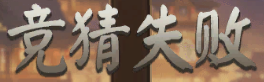
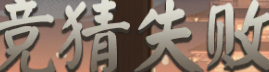
撤回对弈竞猜失败识别的上次 GitHub 更新
回退提交 f091fbd103808c7a6e00dbbb280de1e2fa8b44ea。
恢复发布前的竞猜失败素材和识别规则，保留此前的策略、推送和排期功能。

diff --git a/tasks/FrogBoss/assets.py b/tasks/FrogBoss/assets.py
@@ -36,8 +36,8 @@ class FrogBossAssets:
 	I_SUCCESS_RIGHT = RuleImage(roi_front=(1098,289,122,116), roi_back=(1040,250,201,260), threshold=0.8, method="Template matching", file="./tasks/FrogBoss/fb/fb_success_right.png")
 	# description 
 	I_FAILURE_LEFT = RuleImage(roi_front=(296,303,100,100), roi_back=(243,245,212,259), threshold=0.8, method="Template matching", file="./tasks/FrogBoss/fb/fb_failure_left.png")
-	# 竞猜失败
-	I_BET_FAILURE = RuleImage(roi_front=(622,272,264,82), roi_back=(496,222,447,211), threshold=0.8, method="Template matching", file="./tasks/FrogBoss/fb/fb_bet_failure.png")
+	# description 
+	I_BET_FAILURE = RuleImage(roi_front=(591,290,269,72), roi_back=(496,222,447,211), threshold=0.8, method="Template matching", file="./tasks/FrogBoss/fb/fb_bet_failure.png")
 	# description 
 	I_BET_SUCCESS = RuleImage(roi_front=(625,278,260,73), roi_back=(482,243,521,225), threshold=0.8, method="Template matching", file="./tasks/FrogBoss/fb/fb_bet_success.png")
 
